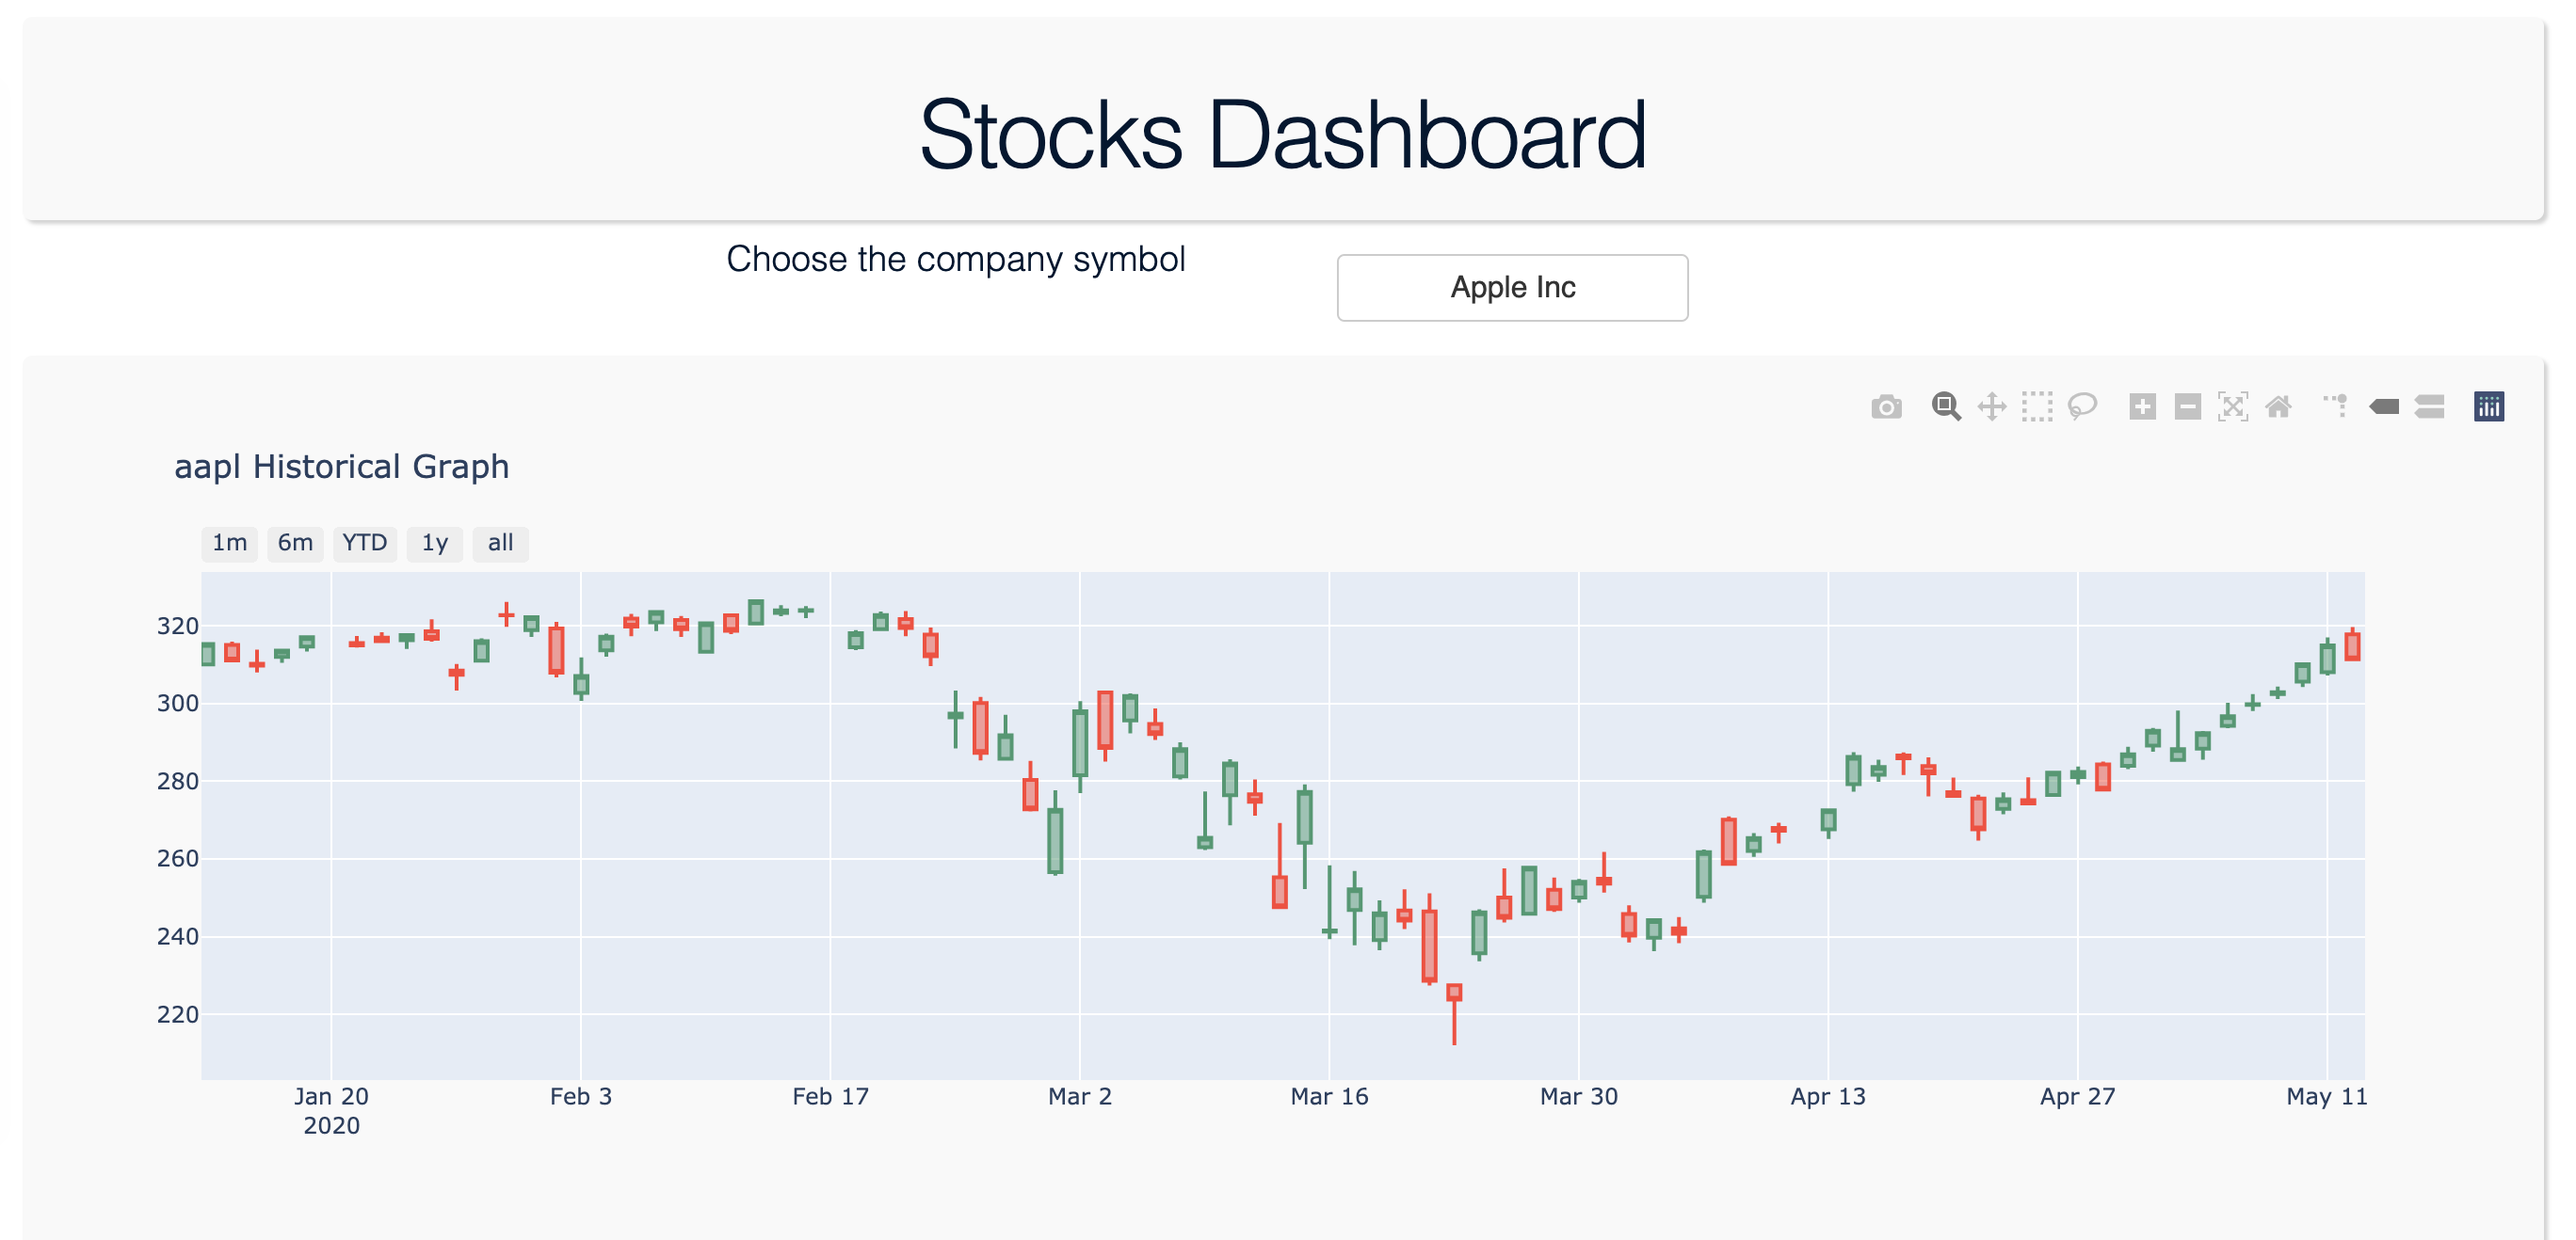
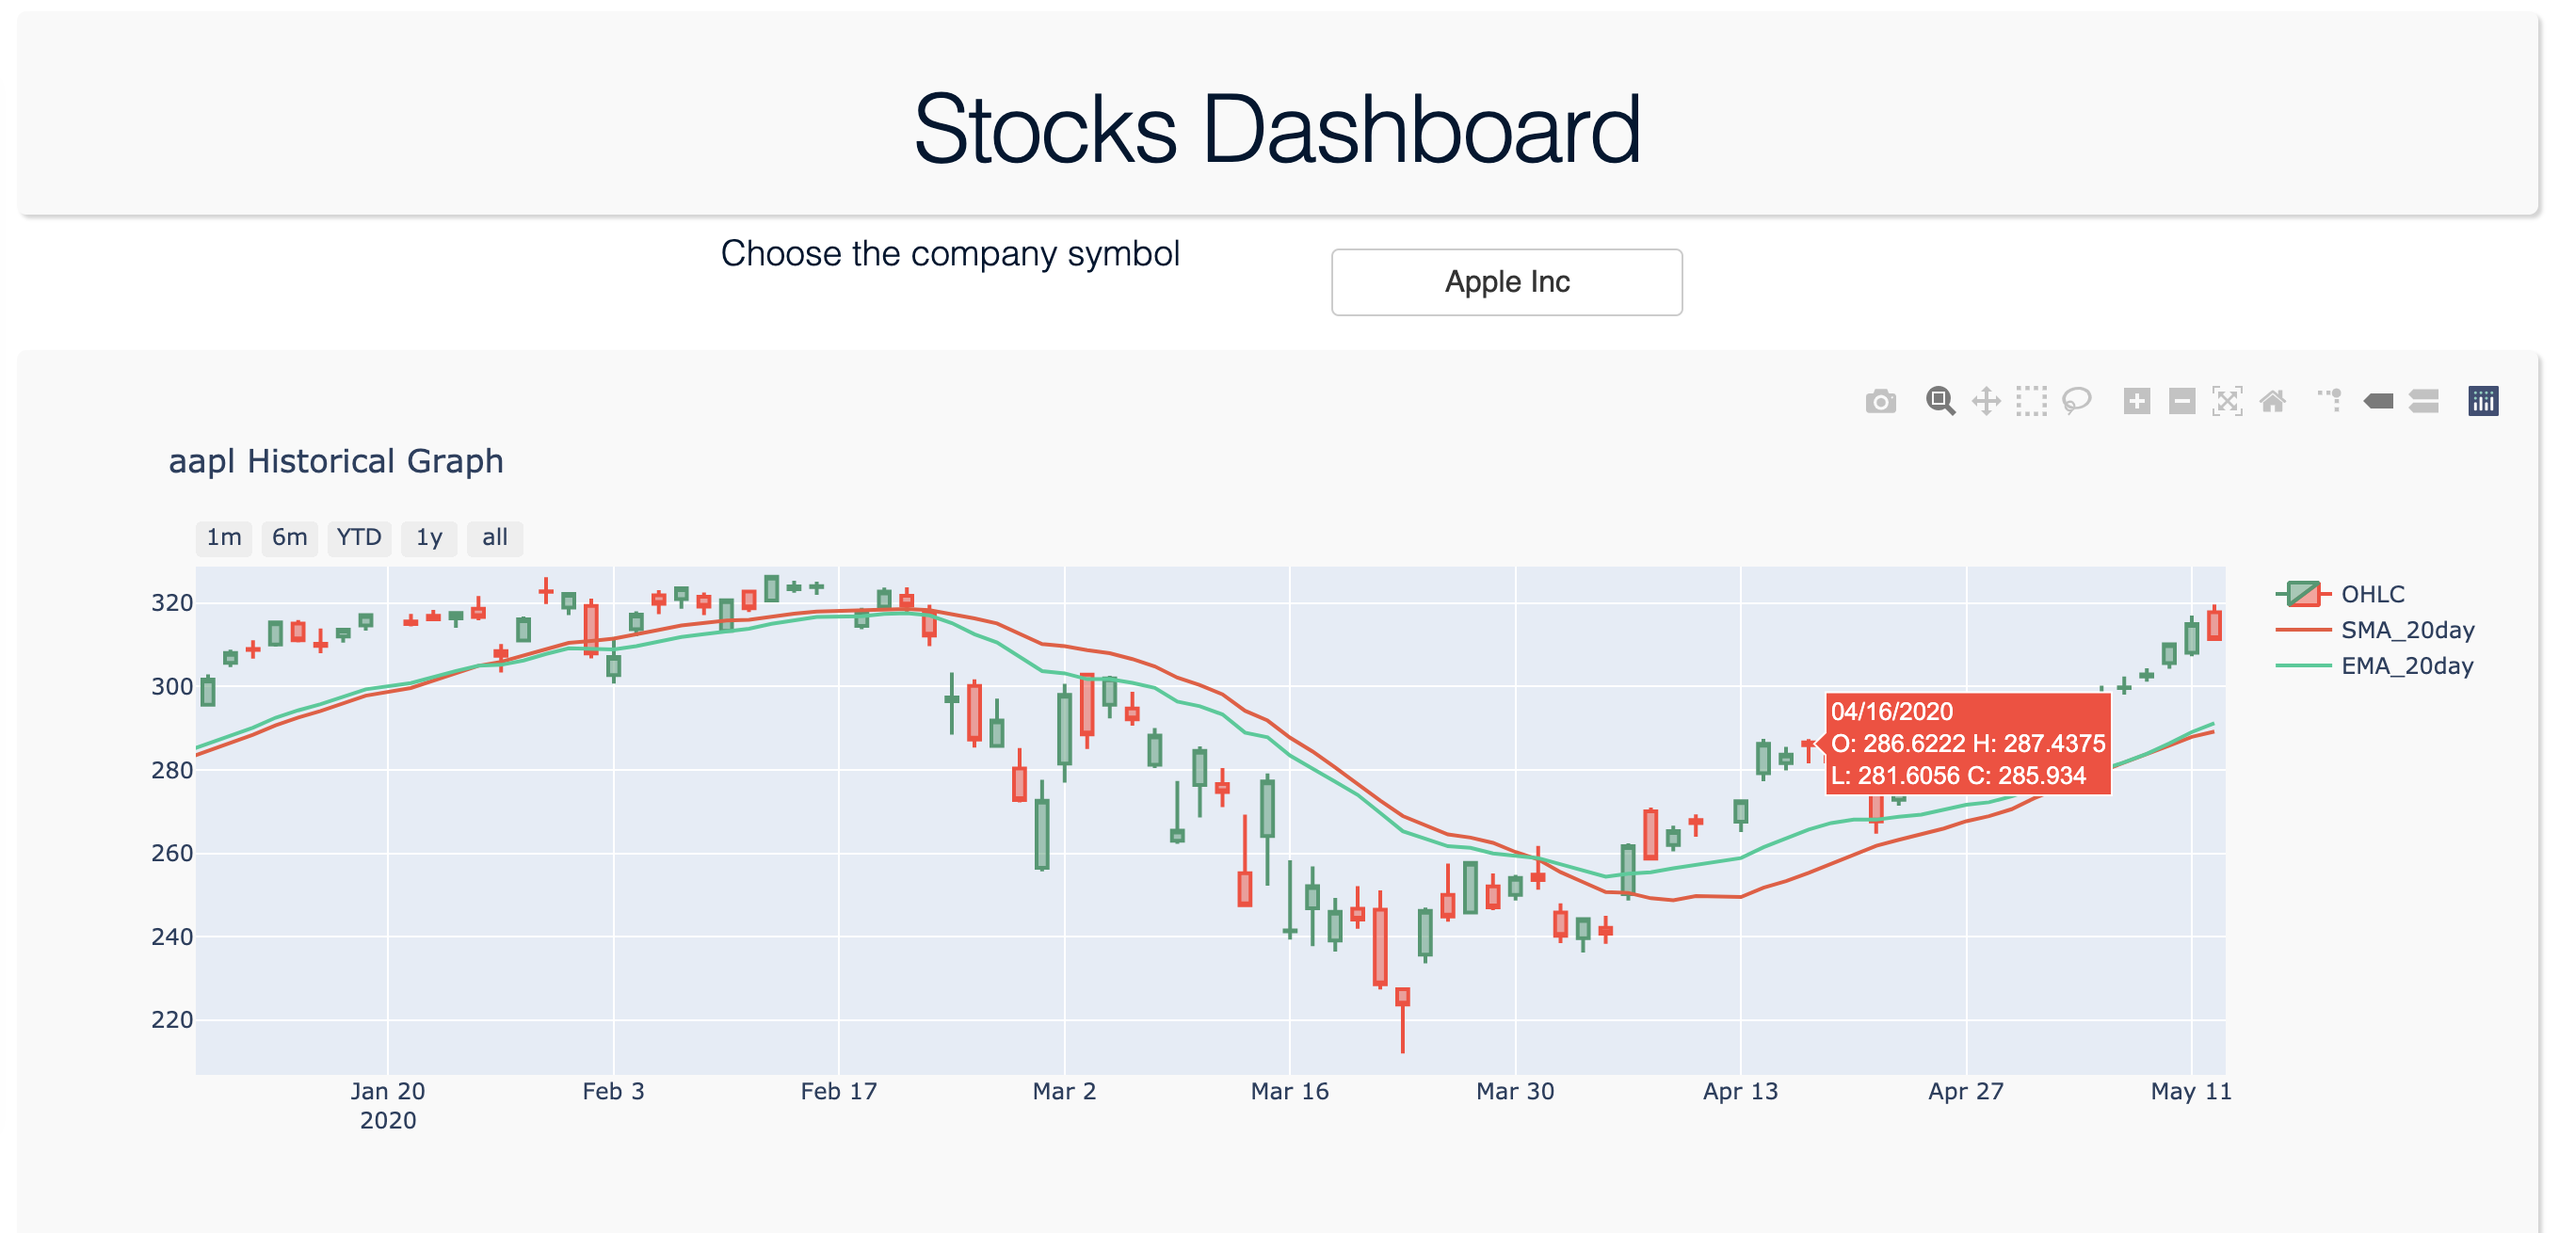
plot w ema and sma

diff --git a/stocktools/tmpv2.py b/stocktools/tmpv2.py
@@ -1,19 +1,122 @@
 # -*- coding: utf-8 -*-
 
-
-import plotly.graph_objects as go
+import sys
 import pandas as pd
+import plotly.graph_objects as go
 import dash
 import dash_core_components as dcc
 import dash_html_components as html
+from dash.dependencies import Input, Output
+from flask import Flask
+from stocktools.json_to_df import json_to_df
 
 
-def plot_ohlc(co_df: pd.DataFrame, title: str = ""):
+colors = {
+    'background': '#00336c',  # onyx
+    'text': '#e2efff'
+}
 
-    colors = {
-        'background': '#00336c',  # onyx
-        'text': '#e2efff'
-    }
+dropdown_options = [
+    {'label': 'Adobe', 'value': 'ADBE'},
+    {'label': 'Apple Inc', 'value': 'AAPL'},
+    {'label': 'Amazon', 'value': 'AMZN'},
+    {'label': 'Netflix', 'value': 'NFLX'},
+    {'label': 'Nike', 'value': 'NKE'},
+    {'label': 'Nvidia', 'value': 'NVDA'},
+    {'label': 'Oracle', 'value': 'ORCL'},
+    {'label': 'Starbucks', 'value': 'SBUX'},
+    {'label': 'Tesla', 'value': 'TSLA'},
+    {'label': 'Intuit', 'value': 'INTU'},
+    {'label': 'Johnson & Johnson', 'value': 'JNJ'},
+    {'label': 'JP Morgan Chase', 'value': 'JPM'},
+]
+
+external_stylesheets = ["/assets/style.css"]
+
+app = dash.Dash(__name__, external_stylesheets=external_stylesheets,)
+app.layout = html.Div([
+    html.Div(
+        html.H2(
+            children='Stocks Dashboard',
+            style={
+                'fontSize': 50,
+                'fontWeight': 150,
+                # 'borderRadius': '15px',
+                # 'overflow': 'hidden',
+                'font-family': ['Poppins', 'sans-serif'],
+                # 'backgroundColor': colors['background'],
+                'textAlign': 'center',
+                'color': ' #001731',
+            }
+        ),
+        className="pretty_container"),
+    html.Div(
+        [
+
+            html.H3("""Choose the company symbol""",
+                    style={
+                        # 'margin-right': '2em',
+                        'fontWeight': 150,
+                        'margin': 0,
+                        'padding': ['0.5em', '5em'],
+                        # 'borderRadius': '15px',
+                        'overflow': 'auto',
+                        'font-family': ['Poppins', 'sans-serif'],
+                        'display':'inline-block',
+                        # 'backgroundColor': colors['background'],
+                        #    'textAlign': 'center',
+                        'color': ' #001731', }),
+            dcc.Dropdown(multi=False,
+                         clearable=False,
+                         style=dict(
+                             #  width='40%',
+                             verticalAlign="middle",
+                             display='inline-block',
+                         ),
+                         id='symbolDropdown',
+                         className="horizontal_dropdowns",
+                         options=dropdown_options,
+                         value='AAPL'
+
+                         ),
+        ],
+        style=dict(display='flex', flexDirection='row',
+                   justifyContent='center'),
+        # className="pretty_container"
+    ),
+
+    html.Div(
+        [
+            dcc.Graph(id='main_graph')
+        ],
+        className='pretty_container eight columns',
+    ),
+
+
+    # html.Div(children='Choose the company symbol below', style={
+    #     'textAlign': 'center',
+    #     'font-family': ['Poppins', 'sans-serif'],
+    #     'fontWeight': 60,
+    #     'fontSize': 25,
+    #     'color': colors['text']
+    # }),
+
+    # html.Div(id='dd-output-container'),
+
+], id="mainContainer",
+)
+
+
+@app.callback(
+    Output('main_graph', 'figure'),
+    [Input('symbolDropdown', 'value')],
+)
+def make_ohlc_graph(symbolDropdown: str):
+    print(symbolDropdown)
+    co_df = json_to_df(f"data_{symbolDropdown.lower()}.json",
+                       path=f"data/data_raw/data_{symbolDropdown.lower()}.json")
+    # print(co_df)
+    title = f"{symbolDropdown.lower()} Historical Graph"
     hovertext = []
     for i in range(len(co_df['Open'])):
         hovertext.append(
@@ -30,17 +133,20 @@ def plot_ohlc(co_df: pd.DataFrame, title: str = ""):
                                         close=co_df['AdjClose'],
                                         text=hovertext,
                                         hoverinfo='text',
-                                        increasing_line_color='#0048BA',
-                                        decreasing_line_color='#E60000'),
+                                        # increasing_line_color='#0048BA',
+                                        # decreasing_line_color='#E60000'
+                                        ),
 
                     layout=go.Layout(
         title=title,
-        width=1200,
-        height=600,
-        plot_bgcolor=colors['background'],
-        paper_bgcolor=colors['background'],
-        xaxis_rangeslider_visible=False)
+        # width=1200,
+        # height=600,
+        # plot_bgcolor=colors['background'],
+        paper_bgcolor='#F9F9F9',
+        xaxis_rangeslider_visible=True)
     )
+    print(type(fig))
+
     fig.update_xaxes(
         rangebreaks=[
             dict(bounds=["sat", "mon"]),  # hide weekends
@@ -79,75 +185,40 @@ def plot_ohlc(co_df: pd.DataFrame, title: str = ""):
             type="date"
         )
     )
-#style={'backgroundColor': colors['background']},
-    app = dash.Dash(__name__)
-    app.layout = html.Div(
-        children=[
-            html.H1(
-                children='Stocks Dashboard',
-                style={
-                    'fontSize': 50,
-                    'fontWeight': 100,
-                    'borderRadius': '15px',
-                    # 'text-decoration': 'underline',
-                    'overflow': 'hidden',
-                    'font-family': ['Poppins', 'sans-serif'],
-                    'backgroundColor': colors['background'],
-                    'textAlign': 'center',
-                    'color': colors['text']
-                }
-            ),
-            # html.Div(children='Choose the company symbol below', style={
-            #     'textAlign': 'center',
-            #     'font-family': ['Poppins', 'sans-serif'],
-            #     'fontWeight': 60,
-            #     'fontSize': 25,
-            #     'color': colors['text']
-            # }),
-            dcc.Dropdown(multi=False,
-                         clearable=False,
-                         #  style={"width": "75%"},
-                         id='symbol-dropdown',
-                         className="horizontal_dropdowns",
-                         options=[
-                             {'label': 'Apple Inc',
-                              'value': 'AAPL'},
-                             {'label': 'Amazon',
-                              'value': 'AMZN'},
-                             {'label': 'Adobe', 'value': 'ADBE'},
-                             {'label': 'Netflix',
-                              'value': 'NFLX'}
-                         ],
-                         # value='AAPL'
-                         placeholder="Choose a company stock symbol",
-                         ),
-            html.Div(id='dd-output-container'),
 
-        ])
+    return fig
 
-    # app.layout = html.Div(
-    #     style={'backgroundColor': colors['background']},
-    #     children=[
-    #         html.H1(
-    #             children='Historical OHLC Chart',
-    #             style={
-    #                 'fontSize': 50,
-    #                 'text-decoration': 'underline',
-    #                 'font-family': 'Ubuntu',
-    #                 'textAlign': 'center',
-    #                 'color': colors['text']
-    #             }
-    #         ),
-    #         html.Div(children='Choose the company symbol below', style={
-    #             'textAlign': 'center',
-    #             'fontSize': 25,
-    #             'color': colors['text']
-    #         }),
-    #         dcc.Graph(
-    #             id='ohlc_graph',
-    #             figure=fig), ]
-    # )
-    # html.Label('OHLC Graph'),
+
+# style={
+#     "display": "flex",
+#     "flex-direction": "column"
+# })
+
+# app.layout = html.Div(
+#     style={'backgroundColor': colors['background']},
+#     children=[
+#         html.H1(
+#             children='Historical OHLC Chart',
+#             style={
+#                 'fontSize': 50,
+#                 'text-decoration': 'underline',
+#                 'font-family': 'Ubuntu',
+#                 'textAlign': 'center',
+#                 'color': colors['text']
+#             }
+#         ),
+#         html.Div(children='Choose the company symbol below', style={
+#             'textAlign': 'center',
+#             'fontSize': 25,
+#             'color': colors['text']
+#         }),
+#         dcc.Graph(
+#             id='ohlc_graph',
+#             figure=fig), ]
+# )
+# html.Label('OHLC Graph'),
+
+if __name__ == "__main__":
 
     app.run_server(debug=True, use_reloader=True)
 

diff --git a/plot_ohlc.py b/plot_ohlc.py
@@ -126,16 +126,33 @@ def make_ohlc_graph(symbolDropdown: str):
             '<br>L: '+str(round(co_df['AdjLow'][i], 4)) +
             '\tC: '+str(co_df['AdjClose'][i]))
 
-    fig = go.Figure(data=go.Candlestick(x=co_df['Date'],
-                                        open=co_df['AdjOpen'],
-                                        high=co_df['AdjHigh'],
-                                        low=co_df['AdjLow'],
-                                        close=co_df['AdjClose'],
-                                        text=hovertext,
-                                        hoverinfo='text',
-                                        # increasing_line_color='#0048BA',
-                                        # decreasing_line_color='#E60000'
-                                        ),
+    trace_ohlc = go.Candlestick(x=co_df['Date'],
+                                open=co_df['AdjOpen'],
+                                high=co_df['AdjHigh'],
+                                low=co_df['AdjLow'],
+                                close=co_df['AdjClose'],
+                                text=hovertext,
+                                hoverinfo='text',
+                                name="OHLC"
+                                # increasing_line_color='#0048BA',
+                                # decreasing_line_color='#E60000'
+                                )
+    trace_sma_20_day = go.Scatter(
+        x=co_df['Date'], y=co_df['SMA_20day'], name="SMA_20day", visible=True)
+    trace_ema_20_day = go.Scatter(
+        x=co_df['Date'], y=co_df['EMA_20day'], name="EMA_20day")
+
+    fig = go.Figure(data=[trace_ohlc, trace_sma_20_day, trace_ema_20_day],
+                    # go.Candlestick(x=co_df['Date'],
+                    #                                     open=co_df['AdjOpen'],
+                    #                                     high=co_df['AdjHigh'],
+                    #                                     low=co_df['AdjLow'],
+                    #                                     close=co_df['AdjClose'],
+                    #                                     text=hovertext,
+                    #                                     hoverinfo='text',
+                    #                                     # increasing_line_color='#0048BA',
+                    #                                     # decreasing_line_color='#E60000'
+                    #                                     ),
 
                     layout=go.Layout(
         title=title,

diff --git a/stocktools/tmp.py b/stocktools/tmp.py
@@ -116,7 +116,7 @@ def plot_ohlc(co_df: pd.DataFrame, title: str = ""):
 
 if __name__ == "__main__":
     # import .json_to_df as js
-    from json_to_df import json_to_df
+    # from json_to_df import json_to_df
     #     from .plot_ohlc import json_to_df
 
     aapl_df = json_to_df('data_aapl.json', )
